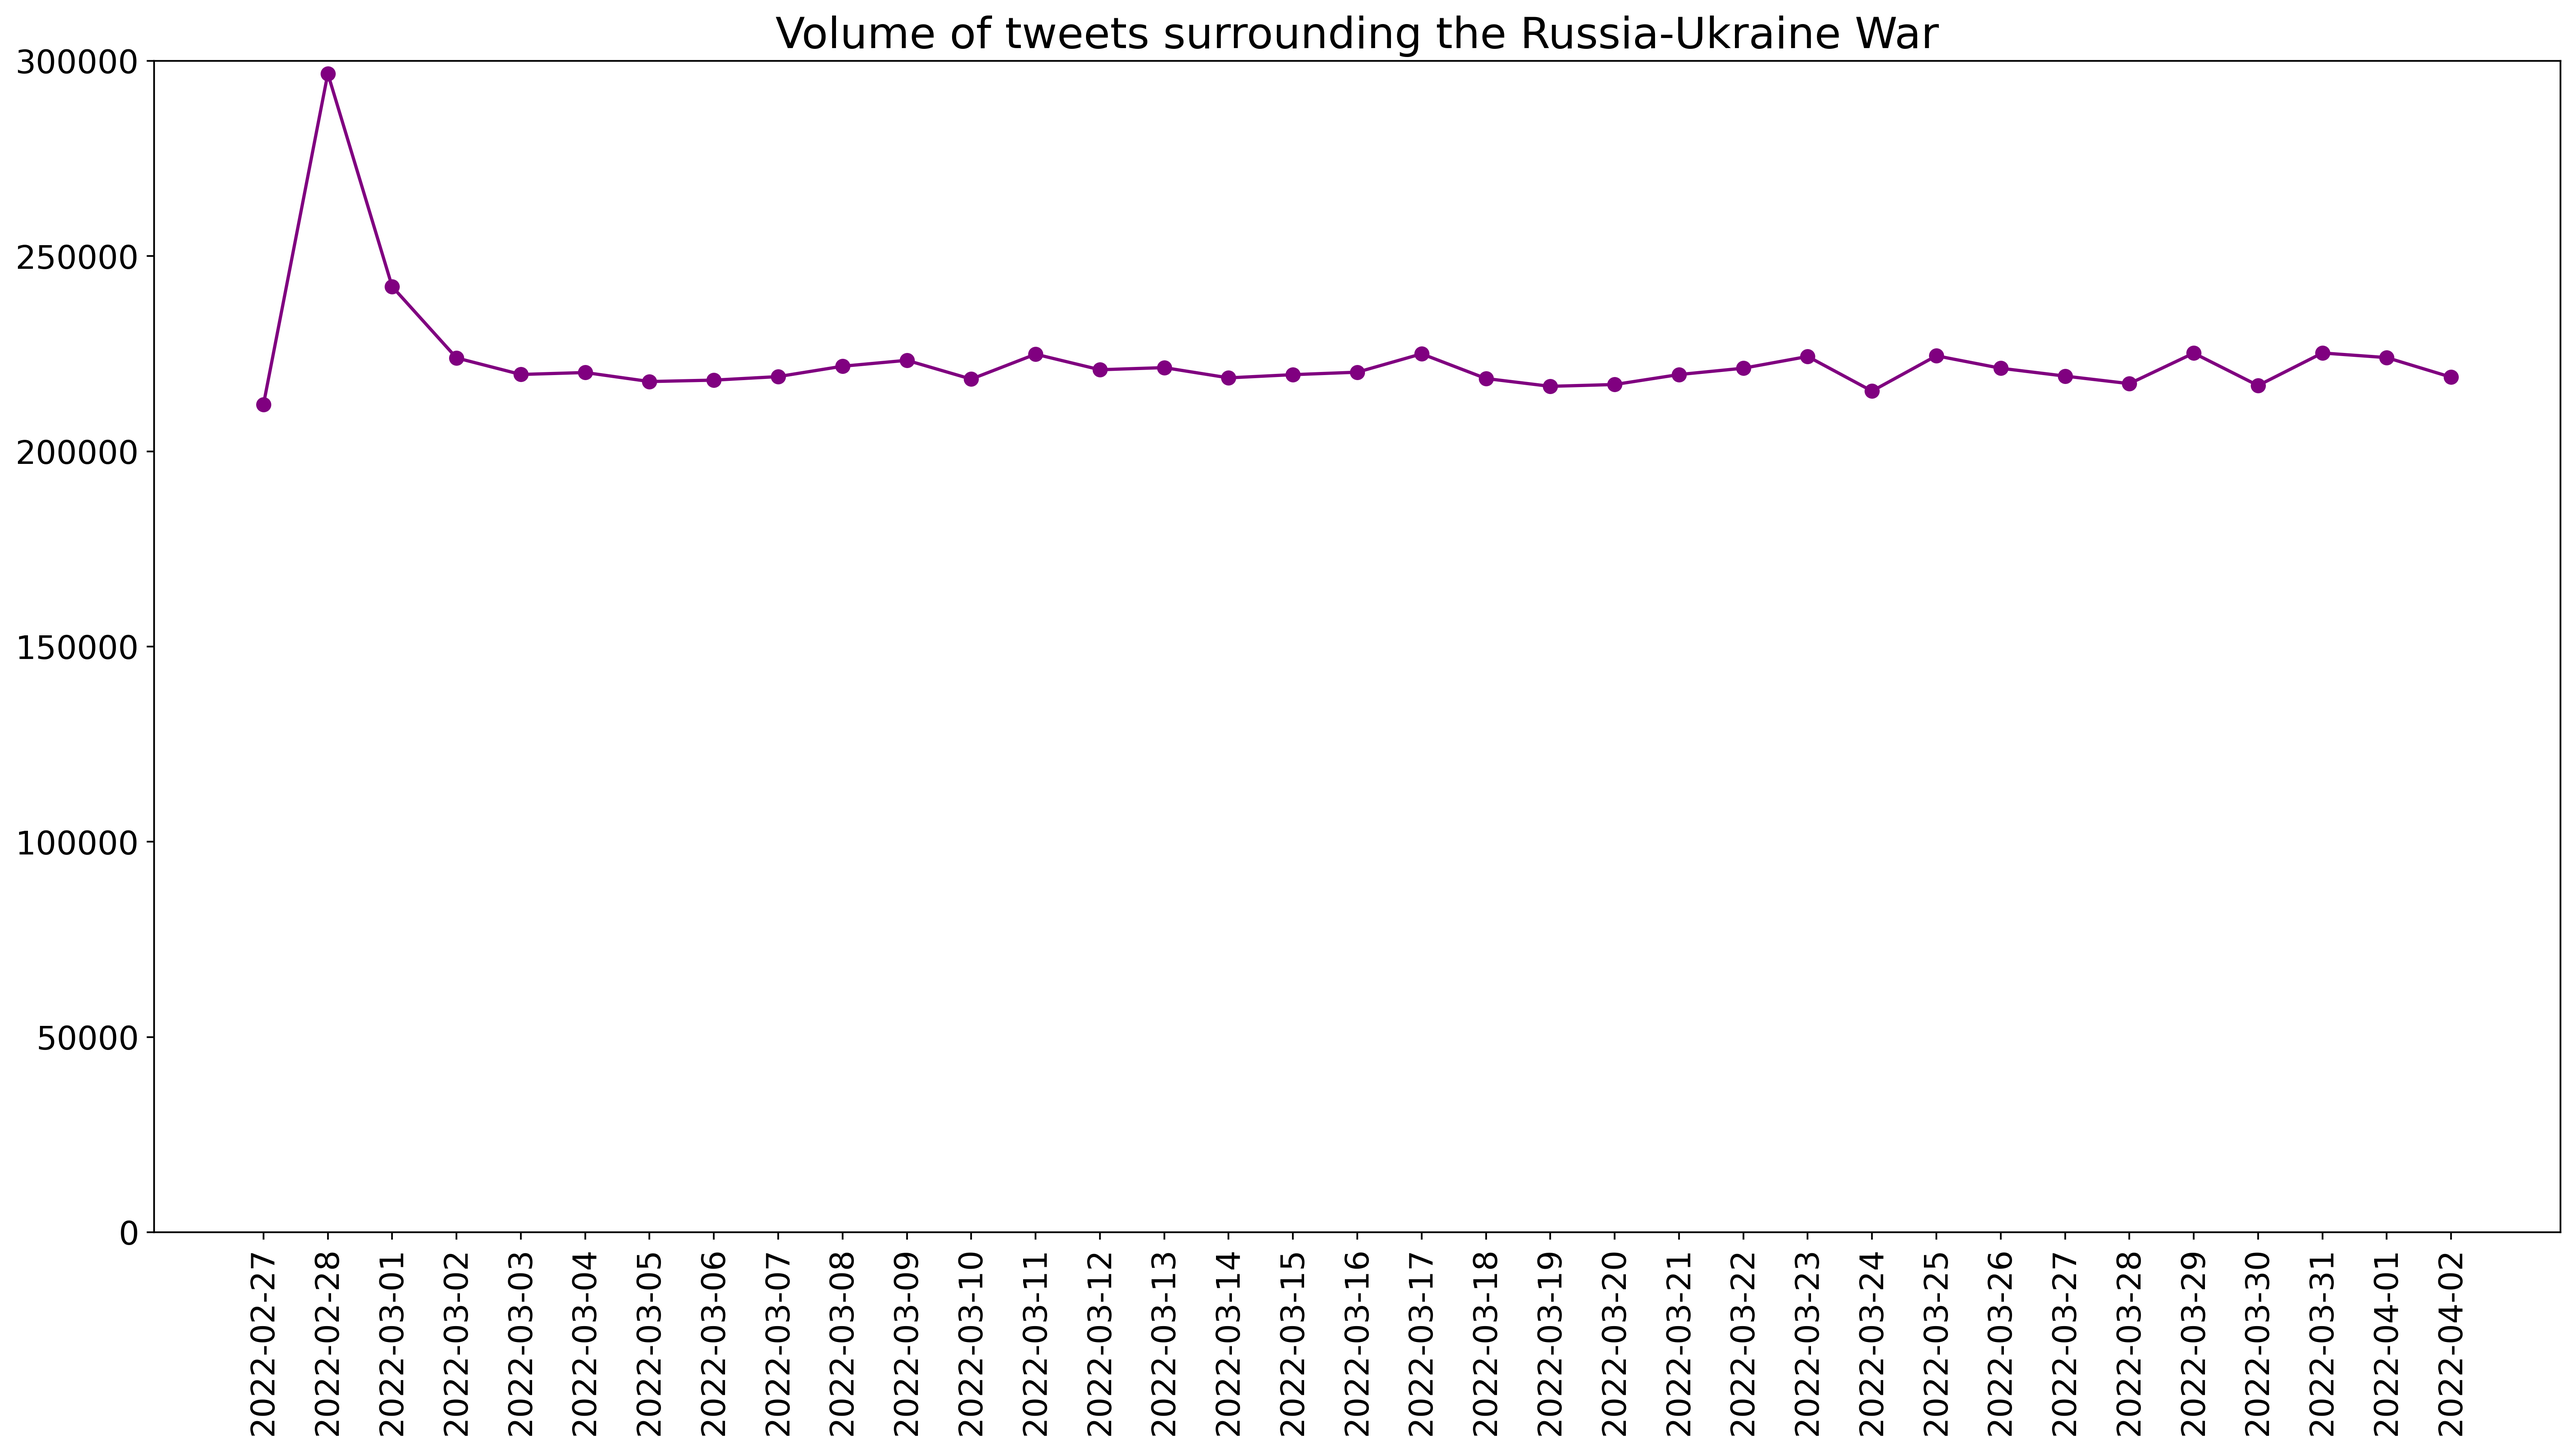
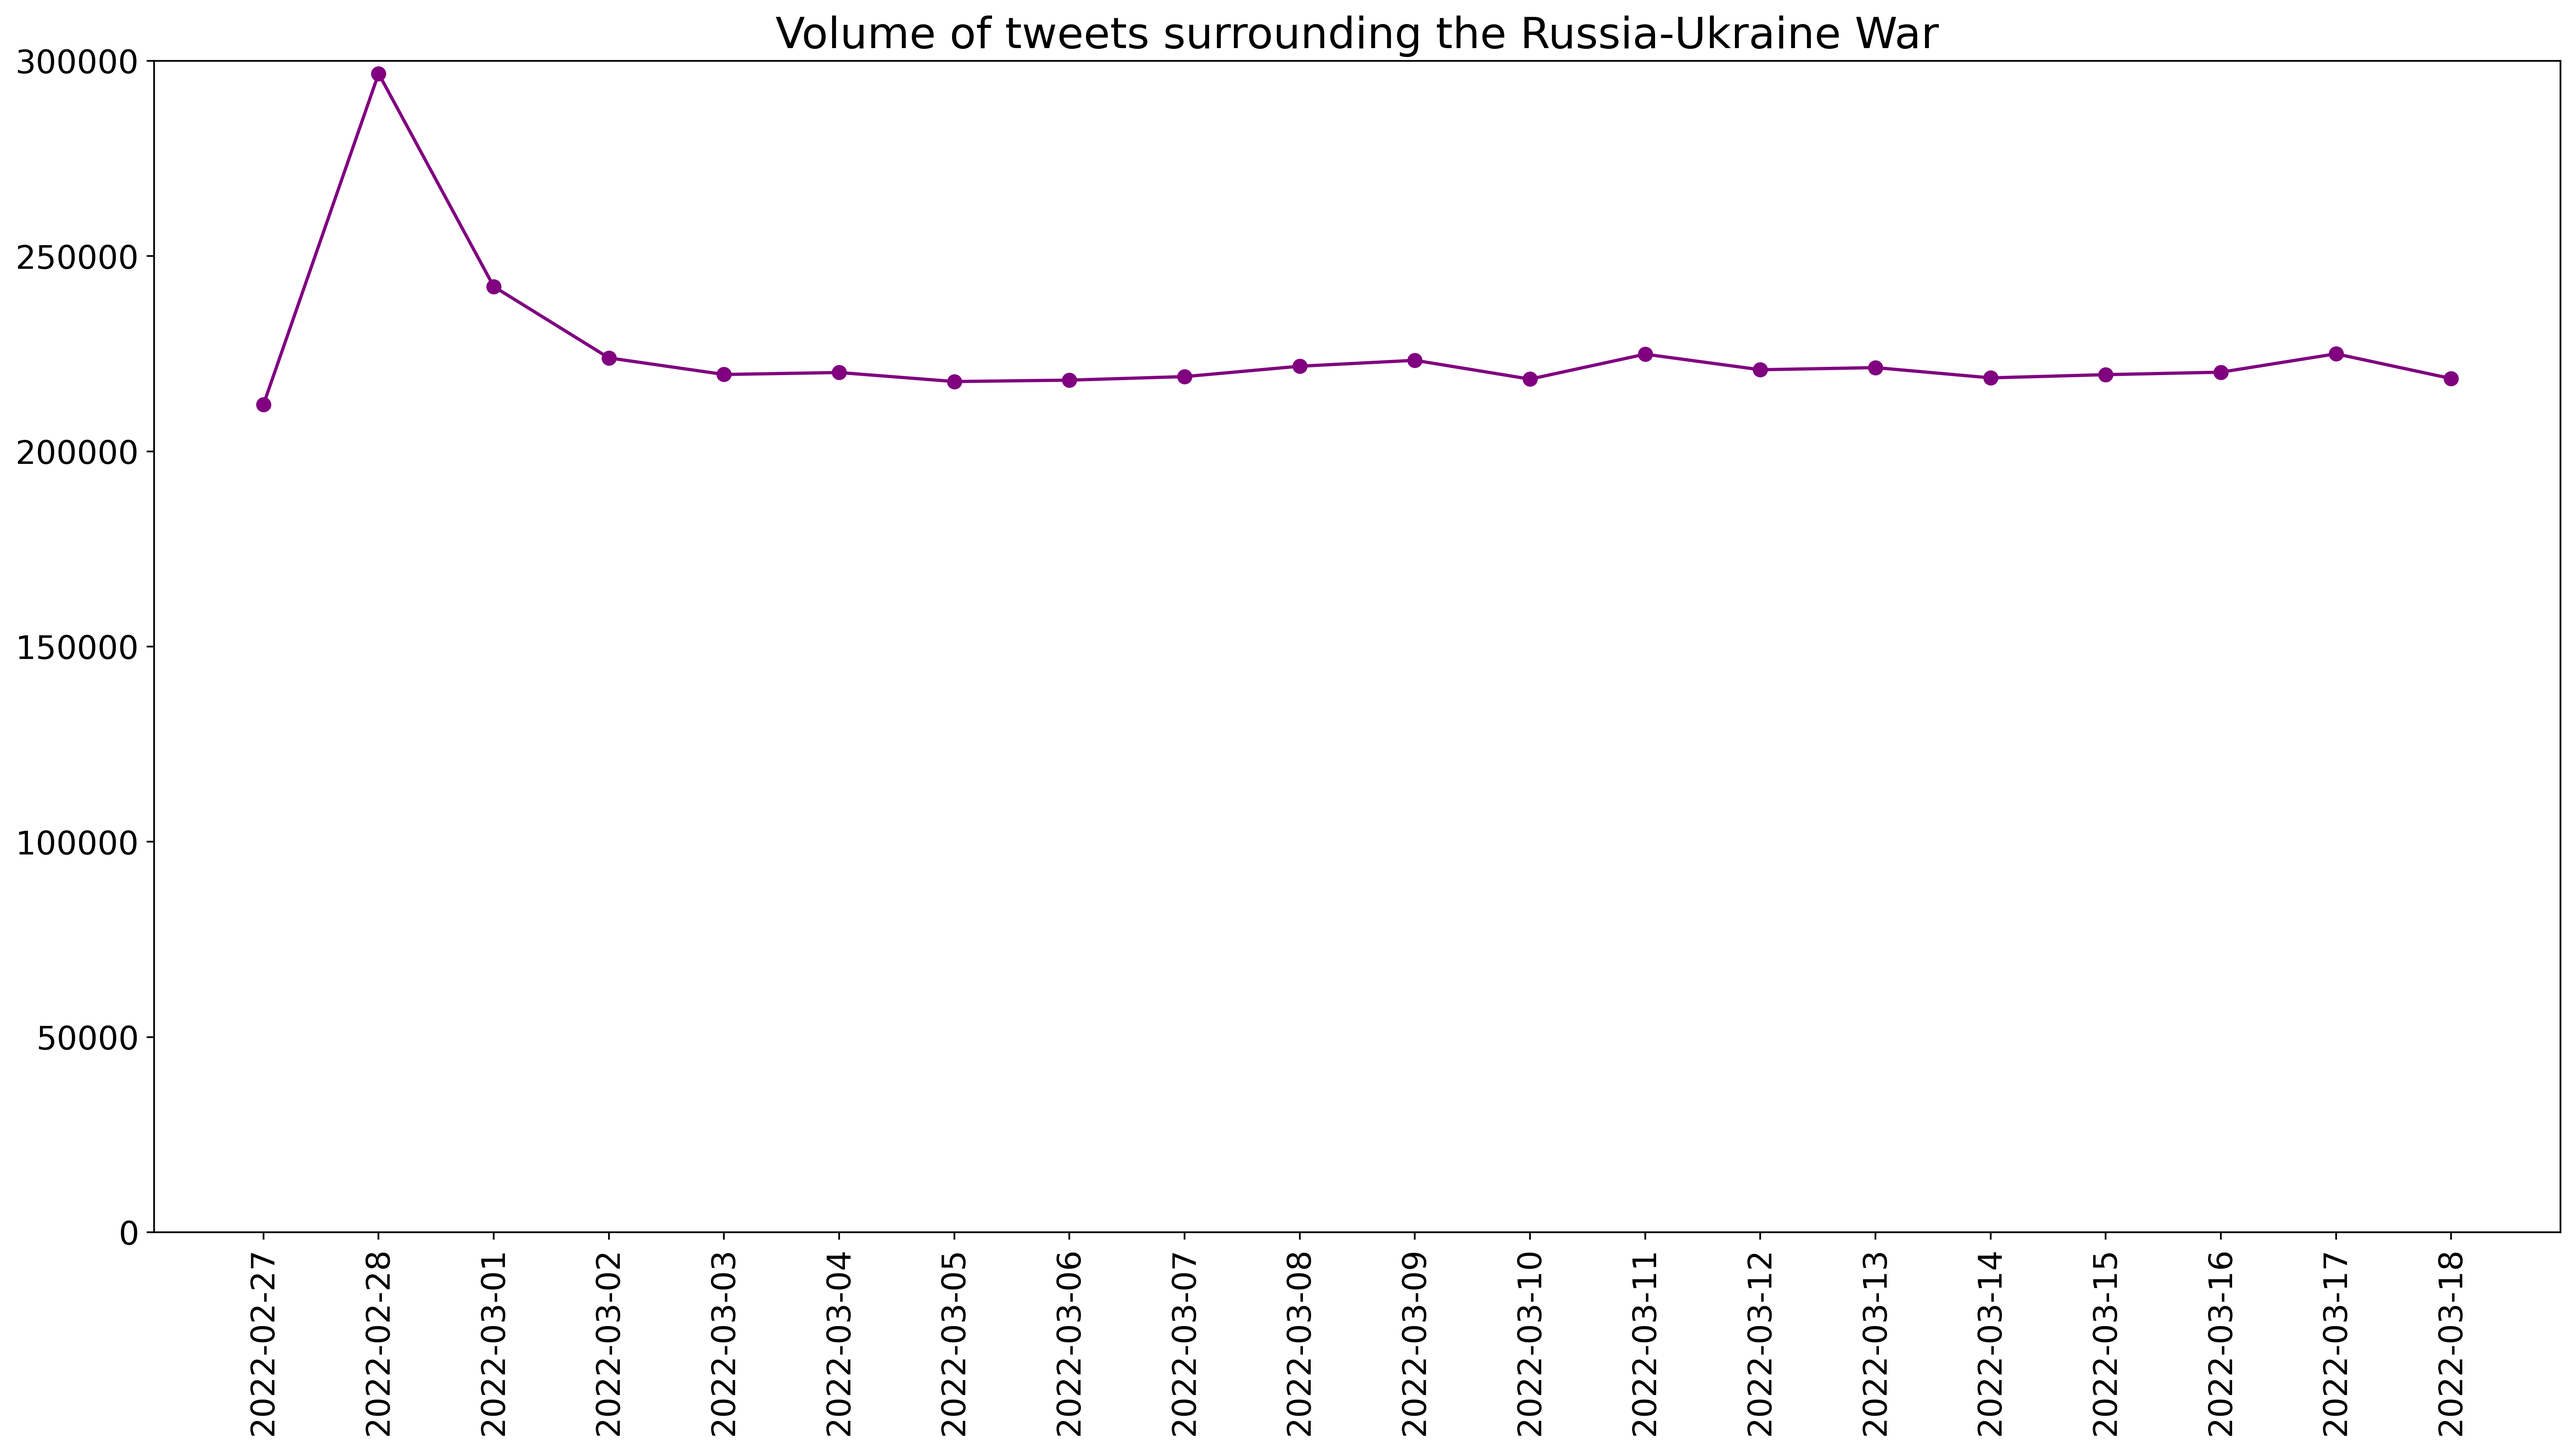
Documented DummyModel

diff --git a/get_topics.py b/get_topics.py
@@ -32,12 +32,14 @@ from collections import defaultdict
 topic_count = defaultdict(lambda: 0)
 no_context = 0
 none_type = 0
-for file in files[:2]:
+type_dict = defaultdict(lambda: 0)
+for file in files:
     with open(path.joinpath(file),'r') as f:
         data = json.load(f)
     for q in range(len(data)):
-        ref_tweets = data[q]['includes']['tweets']
-        id_ref_tweets = {ref_tweets[i]['id']:ref_tweets[i] for i in range(len(ref_tweets))}
+        ref_tweets = data[q]['includes'].get('tweets')
+        
+        id_ref_tweets = {ref_tweets[i]['id']:ref_tweets[i] for i in range(len(ref_tweets))} if ref_tweets is not None else None 
         for t in range(len(data[q]['data'])):
             # insert hastag function
             tweet= data[q]['data'][t]
@@ -45,54 +47,63 @@ for file in files[:2]:
             type = tweet.get('referenced_tweets')
             if type is None:
                 none_type += 1
+            else:
+                type = type[0]['type']
+            type_dict[type] += 1
             if type in ['retweeted', 'replied_to']:
                 # get proper context annotations and text
                 print(type)
-                id = tweet['referenced_tweets'][0]['id']
-                # entities
-                #id = tweet['id']
-                _tweet = id_ref_tweets.get(id)
-                if _tweet is not None:
-                    tweet = _tweet
-                else:
-                    if tweet.get('context_annotations') is not None:
-                        pass
+                if ref_tweets is not None:
+
+                    id = tweet['referenced_tweets'][0]['id']
+                    # entities
+                    #id = tweet['id']
+                    _tweet = id_ref_tweets.get(id)
+                    if _tweet is not None:
+                        tweet = _tweet
                     else:
-                        for hashtag in hashtags.findall(tweet['text']):
-                            topic_count[hashtag] += 1
-                        continue
-            else:
-                # just continue as planned
-                pass
+                        if tweet.get('context_annotations') is not None:
+                            pass
+                        else:
+                            for hashtag in hashtags.findall(tweet['text']):
+                                topic_count[hashtag] += 1
+                            continue
+
             domains = tweet.get('context_annotations')
             if domains is None:
                 no_context += 1
             else:
-                for dom in tweet['context_annotations']:
-                    topic = dom['entity']['name'] 
+                #for dom in tweet['context_annotations']:
+                    #topic = dom['entity']['name'] 
+                topics = [dom['entity']['name'] for dom in tweet['context_annotations']]
+                topics = set(topics)
+                for topic in topics:
                     topic_count[topic] += 1
             for hashtag in hashtags.findall(tweet['text']):
                 topic_count[hashtag] += 1
             
-
-
-
     
 # %%
 import matplotlib.pyplot as plt
 
-# topic_count = {"fisk":15, "gaffel": 22, "ost": 69,"cola": 4}
+topic_count_list = list(zip(topic_count,topic_count.values()))
+topic_count_list.sort(reverse=True, key = lambda x: x[1])
+names = [x[0] for x in topic_count_list]
+counts = [x[1] for x in topic_count_list]
+n = 10
 
 fig, ax = plt.subplots(figsize=(15,7),dpi=400)
-plt.xticks(rotation=45,fontsize=15)
+plt.xticks(rotation=90,fontsize=15)
 plt.yticks(fontsize=15)
 
-ax.bar(list(topic_count),list(topic_count.values()))
+import seaborn as sns
+
+sns.barplot(names[:n], counts[:n], palette='Blues_d')
+#ax.bar(names[:n], counts[:n])
 
 plt.title("Topic occurrences",fontdict={'fontsize': 20})
-plt.xlabel("topic",fontdict={'fontsize': 20})
+plt.xlabel("Topic",fontdict={'fontsize': 20})
 plt.ylabel("Number of occurrences (links)",fontdict={'fontsize': 20})
 
 plt.show()
 # %%
-

diff --git a/count_langs.py b/count_langs.py
@@ -1,29 +1,34 @@
 #%%
-from xml.etree.ElementInclude import default_loader
 import pandas as pd
 import numpy as np
 import json
 import os
 from collections import defaultdict
 import re
+
+# For code path
+import sys
+from pathlib import Path
 #%%
 
 
-path = './data/hydrated/data/dehydrated'
+code_path = Path(os.getcwd())
+path = './data/hydrated/'
 
+path = code_path.joinpath('data/hydrated')
+#dirs = [os.path.join(path,d) for d in os.listdir(path) if os.path.isdir(os.path.join(path,d))]
+files = [f for f in os.listdir(path) if os.path.isfile(os.path.join(path,f))] 
+# %%
+files.sort(key = lambda x: x[:10])
+
+# %%
 lang_days = defaultdict(lambda: defaultdict(int))
-
 c = 0
+for file in files:
+    with open(path.joinpath(file),'r') as f:
+        data = json.load(f)
 
-for filename in os.listdir(path):
-    # print("filenam",filename)
-    f = os.path.join(path, filename)
-    # checking if it is a file
-    if os.path.isfile(f):
-        with open(f,'r') as fi:
-            data = json.load(fi)
-
-        day = re.findall(f"[0-9-]+",f)[0]
+        day = re.findall(f"[0-9-]+",file)[0]
         if day not in lang_days:
             lang_days[day] = defaultdict(int)
             print("added day",day)
@@ -35,11 +40,6 @@ for filename in os.listdir(path):
                 lang_days[day][lang] += 1
 
         # print(df.iloc[0]["data"][0]["context_annotations"])
-    
-
-#%%
-
-lang_days["2022-03-12"]["uk"]
 
 
 #%%
@@ -58,18 +58,6 @@ for day in days:
         else:
             lang_days[day][f"{lang}_p"] = lang_days[day][lang]/N
 
-#%%
-lang_days["2022-03-12"]["uk_p"]
-
-#%%
-
-x = r"#[\w]+"
-y = r"#[^#\s.,;:'`]+"
-
-test_string = ["#ged","#ged#fisk", "#ged1fisk", "#ged2.fisk", "#ged3? fisk", "#asjdkl#asjdklsiiee ;3 #sdokpwekr3pwoe"]
-
-for te in test_string:
-    print(re.findall(y,te))
 
 
 #%%
@@ -95,7 +83,7 @@ for i, lang in enumerate(relevant_langs_p):
 plt.title("daily language distribtion of Tweets",fontdict={'fontsize': 30})
 plt.xlabel("day",fontdict={'fontsize': 30})
 plt.ylabel("% of daily tweets",fontdict={'fontsize': 30})
-plt.legend(prop={'size': 30})
+plt.legend(prop={'size': 30}, loc='midlle right')
 
 plt.show()
 
@@ -112,3 +100,4 @@ plt.pie(list(N_points_lang.values()),labels=list(N_points_lang), colors=colors, 
 plt.title('Total langugae distribution')
 plt.axis('equal')
 plt.show()
+# %%

diff --git a/count_volume.py b/count_volume.py
@@ -14,8 +14,10 @@ code_path = Path(os.getcwd())
 path = code_path.joinpath('./data/complete/')
 dirs = [os.path.join(path,d) for d in os.listdir(path) if os.path.isdir(os.path.join(path,d))]
 
+# REMOVE LATER, BUT RN WE ONLY LOOK AT THE FIRST 20 DAYS
 # %%
 dirs.sort(key = lambda x: x[-10:])
+dirs = dirs[:20]
 
 # %%
 
